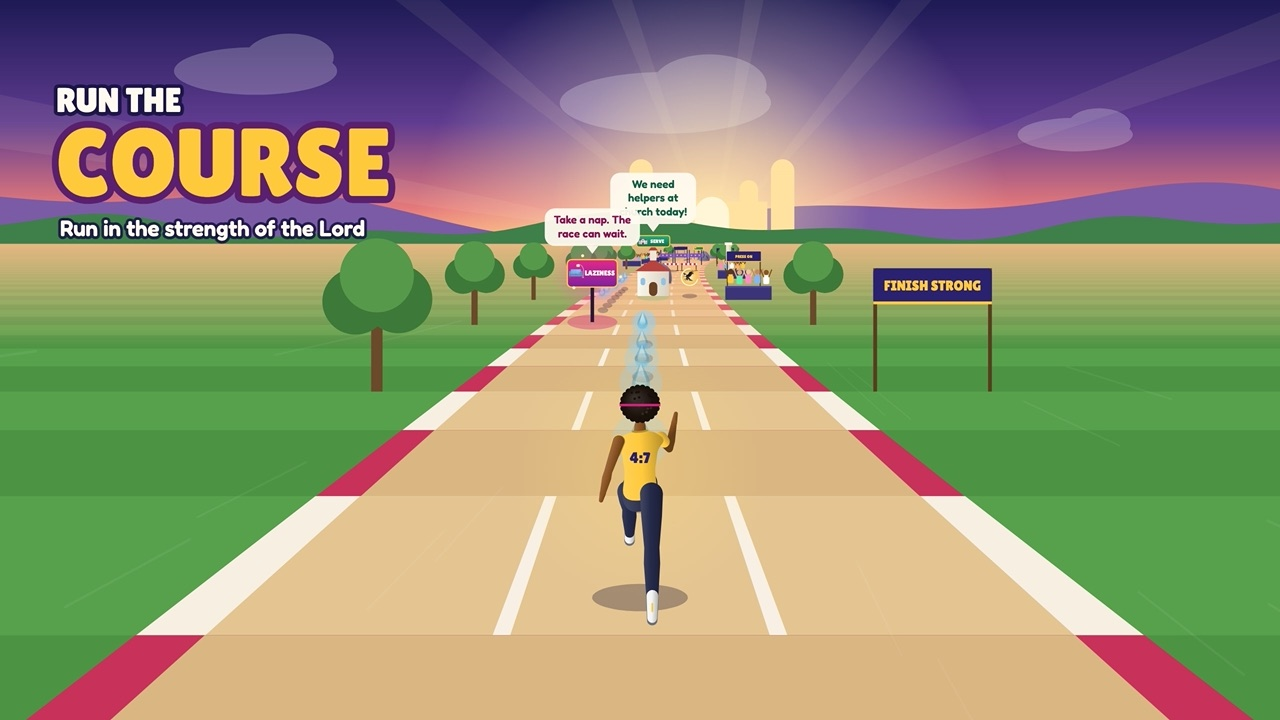
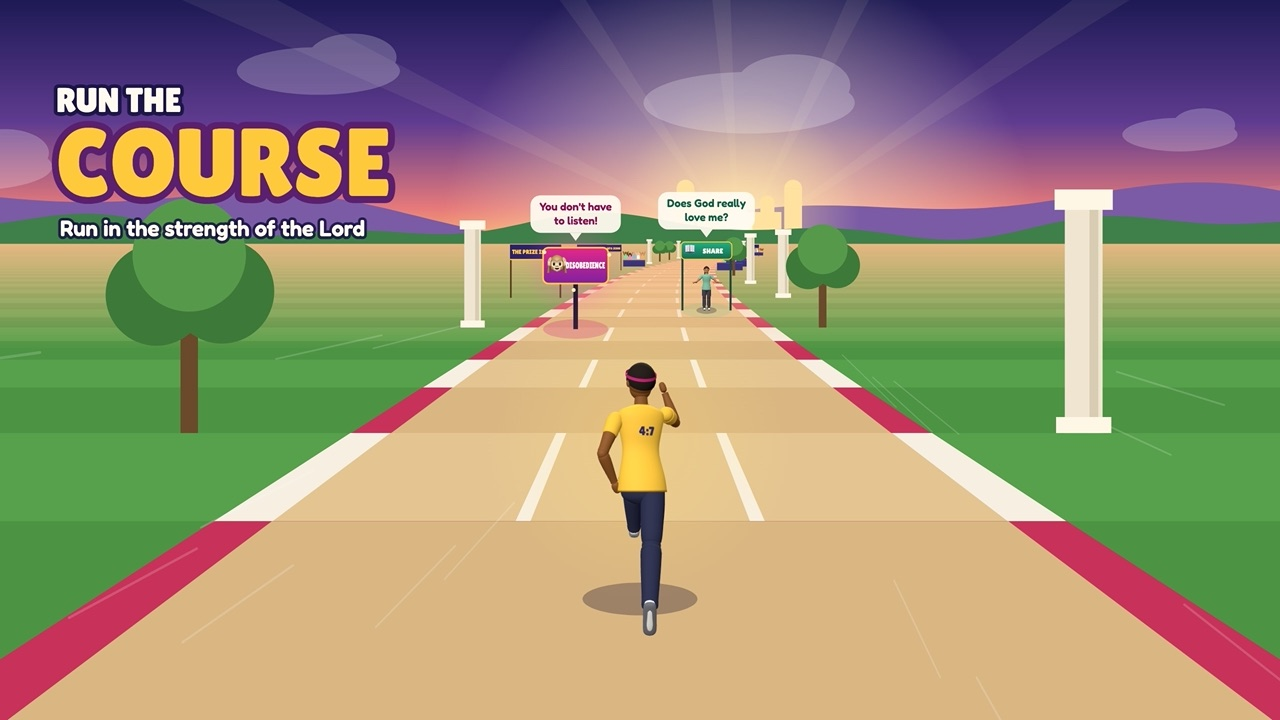
Run the Course: smooth the shirt hem and update the card picture
The shirt no longer has the legs poking through it at the hips, the card
shows the 3D runner, and the game now waits for a tab that starts with no
size instead of crashing.

diff --git a/run-the-course/index.html b/run-the-course/index.html
@@ -1343,7 +1343,7 @@ function solveRig(P, roll){
   J.head = add(J.neck, upAt(P.lean * .4), .14);
   [-1, 1].forEach((sd, i) => {
     const Lg = P.legs[i], A = P.arms[i];
-    const hip = add(J.pel, v(sd * .1, -.04, -sd * P.twist * .5), 1);
+    const hip = add(J.pel, v(sd * .09, -.04, -sd * P.twist * .5), 1);
     const knee = add(hip, sag(Lg.a), .43);
     const b = Lg.a - Lg.k, ankle = add(knee, sag(b), .41);
     const fa = b + Math.PI / 2 - Lg.f;
@@ -1704,7 +1704,7 @@ function makeCharacter(L){
 
   // Clothing on the lower body.
   const pants = L.bottom !== 'knee';
-  const thighProf = pants ? [[0, 0], [.04, .084], [.3, .092], [.65, .08], [.96, .064], [1, 0]] : [[0, 0], [.04, .084], [.3, .094], [.65, .084], [.96, .07], [1, 0]];
+  const thighProf = pants ? [[0, 0], [.04, .072], [.3, .086], [.65, .08], [.96, .064], [1, 0]] : [[0, 0], [.04, .072], [.3, .088], [.65, .084], [.96, .07], [1, 0]];
   const shinSkin = [[0, 0], [.04, .05], [.28, .058], [.72, .04], [.98, .032], [1, 0]];
   const shinPant = [[0, 0], [.04, .066], [.3, .07], [.8, .056], [.97, .05], [1, 0]];
   for (let i = 0; i < 2; i++) {
@@ -1730,7 +1730,7 @@ function makeCharacter(L){
   // Upper body: a fitted athletic shirt, long enough to cover the seat.
   ch.torso = add(new THREE.Group());
   add(new THREE.Mesh(loftGeo([
-    { y: -.13, rx: .18, rz: .14 }, { y: -.02, rx: .17, rz: .128 }, { y: .16, rx: .14, rz: .098, z: -.005 }, { y: .3, rx: .162, rz: .114, z: -.008 },
+    { y: -.12, rx: .182, rz: .165, z: .022 }, { y: -.02, rx: .172, rz: .148, z: .016 }, { y: .16, rx: .14, rz: .098, z: -.005 }, { y: .3, rx: .162, rz: .114, z: -.008 },
     { y: .4, rx: .184, rz: .118, z: -.008 }, { y: .455, rx: .165, rz: .098, z: -.002 }, { y: .49, rx: .082, rz: .068 }, { y: .5, rx: .05, rz: .05 },
   ]), shirt), ch.torso);
   const band = new THREE.Mesh(new THREE.CylinderGeometry(.064, .07, .026, 22, 1, true), mat(shade(L.jersey.c, -.28), .7, { side: THREE.DoubleSide }));
@@ -2138,7 +2138,12 @@ $('#muteBtn').onclick = () => { muted = !muted; try { localStorage.setItem('rtc-
 
 /* ---------- Boot ---------- */
 let last = performance.now();
-function frame(now){ const dt = Math.min(.05, (now - last) / 1000); last = now; update(dt); render(); if (!runnerScreen.hidden) drawPreview(); requestAnimationFrame(frame); }
+function frame(now){
+  const dt = Math.min(.05, (now - last) / 1000); last = now;
+  if (!W || !H) resize(); // a tab opened in the background can start with no size
+  if (W && H) { update(dt); render(); if (!runnerScreen.hidden) drawPreview(); }
+  requestAnimationFrame(frame);
+}
 function start(data){
   loadProgress(); loadLook();
   if (data && data.progress) progress = { ...progress, ...data.progress };
